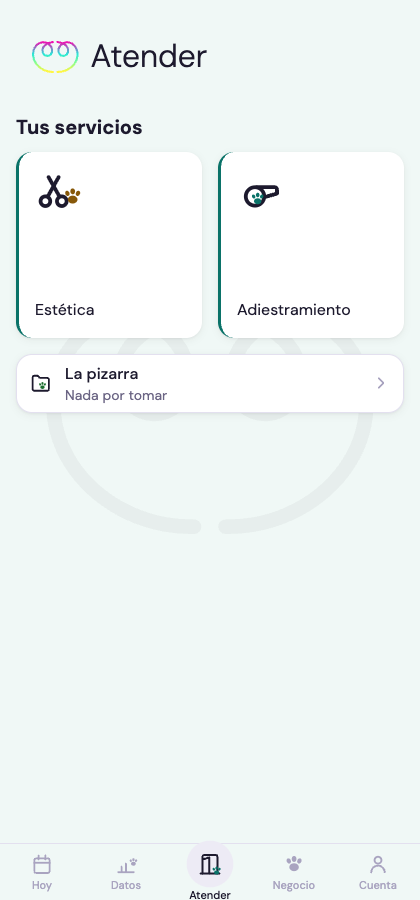
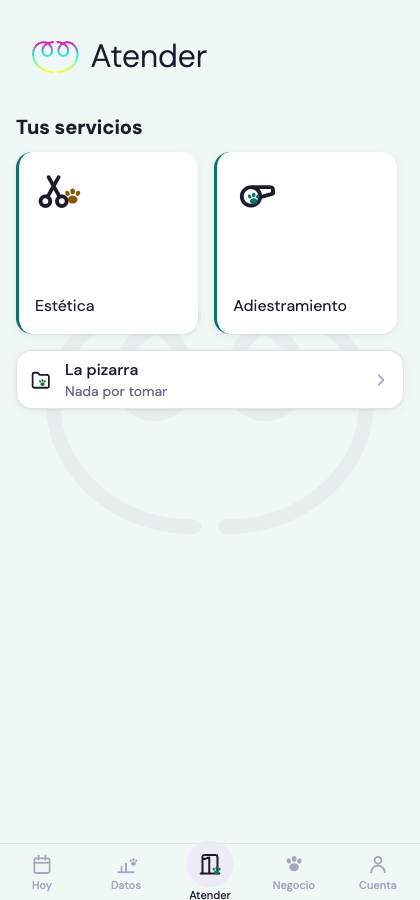
feat(s98-c): ✅ `orden` DEVUELTO con sus dos condiciones · y la celda corregida con medicion
LAS DOS CONDICIONES, cumplidas y verificadas — no una:
  ① la pieza declara su alto: el `aspectRatio` subio a la RAIZ (B,
     `7d42849c`). La ley «la raiz es duena de su espacio» estaba cumplida
     a medias: el espacio son dos dimensiones y solo tenia el ancho.
  ② mi captura re-corrida CON EL TESTIGO DEBAJO (la pizarra). El vecino es
     lo unico que hace visible una altura cero — sin el, la foto no prueba
     nada. La verificacion era parte de la condicion, no un paso posterior.

Y DOS DESVIOS DEL PATRON DOCUMENTADO, los dos MEDIDOS antes de desviarme:

① SIN `flexGrow`. El patron lo traia para que «una baldosa impar ocupe la
   fila entera en vez de quedar a media pantalla» — razonable para una
   tarjeta libre, y con la pieza ya CUADRADA produce el defecto que A
   midio: la impar crece a todo el ancho y su aspectRatio la vuelve un
   cuadrado de pantalla completa (~380×380; dos apiladas ≈ los 800 px).
   *Una regla de relleno se vuelve un gigante cuando la pieza ata alto a
   ancho.*

② `47%` y NO el `48%` nuevo, y esto es una MEDICION contra el patron que
   acaba de cambiar: el gap cuenta para la decision de wrap, asi que
     Android 412 (380 utiles): 2×182.4 + 16 = 380.8 > 380  ⇒ WRAP
     web     420 (388 utiles): 2×186.2 + 16 = 388.5 > 388  ⇒ WRAP
     con 47%:                  373.2 y 380.7               ⇒ ENTRA
   El 48% nacio para dejar de ser «fragil por siete pixeles» y **no entra
   en ninguno de los dos anchos reales**: mandaria la portada a UNA
[…]

diff --git a/apps/prestador/src/app/(tabs)/atender.tsx b/apps/prestador/src/app/(tabs)/atender.tsx
@@ -74,6 +74,34 @@ const KEY_OFICIO = {
   adiestramiento: 'atender.oficioAdiestramiento',
 } as const;
 
+/**
+ * 🔴 LA CELDA DE LA GRILLA — y sus dos desvíos del patrón documentado,
+ * los dos MEDIDOS antes de desviarme (D-804).
+ *
+ * ① **SIN `flexGrow`.** El patrón lo traía razonando que *«una baldosa
+ *    impar ocupe la fila entera en vez de quedar a media pantalla»* — y
+ *    esa regla, con la pieza ya CUADRADA, produce el defecto que A midió
+ *    en dispositivo: la impar crece a todo el ancho y su `aspectRatio: 1`
+ *    la vuelve **un cuadrado de pantalla completa** (~380×380; dos
+ *    apiladas ≈ los 800 px del reporte). *Lo que era una regla de relleno
+ *    razonable para una tarjeta libre se vuelve un gigante cuando la
+ *    pieza ata alto a ancho.*
+ *
+ * ② **`47%` y NO el `48%` nuevo.** El patrón cambió a 48% para dejar de
+ *    ser «frágil por siete píxeles», y la aritmética dice que el 48%
+ *    **no entra en ninguno de los dos anchos reales** —el gap cuenta
+ *    para la decisión de wrap—:
+ *
+ *      Android 412 (380 útiles): 2×182.4 + 16 = 380.8 > 380  ⇒ WRAP
+ *      web     420 (388 útiles): 2×186.2 + 16 = 388.5 > 388  ⇒ WRAP
+ *      con 47%:                  373.2 y 380.7               ⇒ ENTRA
+ *
+ *    Adoptarlo mandaría la portada a UNA columna en los dos aparatos.
+ *    **Va como medición a B, no como parche mío a su patrón** — pero
+ *    tampoco copio un número que ya medí que no entra.
+ */
+const ESTILO_CELDA = { flexBasis: '47%' } as const;
+
 type Pantalla =
   | { fase: 'cargando' }
   // El error DICE su causa y ofrece reintentar (Ley 13 / regla 36): un
@@ -192,26 +220,11 @@ export default function Atender() {
                     naturalezas (§1.2) — `Tus servicios` y `Tu tienda`. No
                     son vocabulario: son el primer candado del cinturón. */}
                 <Texto variante="seccion">{t('atender.tusServicios')}</Texto>
-                {/* 🔴 S98-C · `orden` EN ESPERA — y esta vez NO es una
-                    desviación con condición de muerte: es un commit RETENIDO.
-
-                    Lo devolví (`2bb4f8e3`) creyendo que la causa del
-                    colapso había desaparecido por construcción con la cura
-                    de `Entrada`. **Era la causa del CONTENEDOR.** D-804
-                    midió la otra, y sigue viva: **la pieza no declara su
-                    alto** —su raíz lleva `width` y nada más; el
-                    `aspectRatio` vive en un hijo— así que hereda el alto de
-                    donde caiga: 0 con un contenedor que no le da nada, ~800
-                    con uno que le da todo.
-
-                    ⇒ **Devolver el escalonado sobre una pieza sin alto
-                    propio es reabrir el colapso, no cerrarlo.**
-
-                    ☠ VUELVE cuando la pieza declare su alto (B) **y** yo
-                    re-corra la captura con `orden` puesto Y EL TESTIGO
-                    DEBAJO — el vecino es lo que hace visible una altura
-                    cero, y sin él la foto no prueba nada. *La verificación
-                    es parte de la condición, no un paso posterior.* */}
+                {/* ✅ S98-C · `orden` DEVUELTO — con las DOS condiciones
+                    cumplidas y verificadas, no con una: la pieza declara su
+                    alto (`aspectRatio` subió a su raíz, B) **y** esta
+                    captura se re-corrió con el testigo debajo (la pizarra),
+                    que es lo único que hace visible una altura cero. */}
                 {/* 🔴 `alignItems: 'flex-start'` — LA MITAD DE D-804 QUE ES MÍA.
                     Con el default `stretch`, cada celda de la fila recibe un
                     ALTO DEFINIDO (el de la fila), y un alto definido GANA
@@ -241,12 +254,13 @@ export default function Atender() {
                     gap: spacing[4],
                   }}
                 >
-                  {capacidad.oficios.map((o) => (
-                    <View key={o.oficio} style={{ flexBasis: '47%', flexGrow: 1 }}>
+                  {capacidad.oficios.map((o, i) => (
+                    <View key={o.oficio} style={ESTILO_CELDA}>
                       <Baldosa
                         glifo={GLIFO_OFICIO[o.oficio]}
                         titulo={t(KEY_OFICIO[o.oficio])}
                         capa={o.oficio === 'veterinaria' ? 'identidad' : 'cuidado'}
+                        orden={i}
                         onPress={() =>
                           router.push({ pathname: '/mostrador', params: { oficio: o.oficio } })
                         }
@@ -302,11 +316,12 @@ export default function Atender() {
                     gap: spacing[4],
                   }}
                 >
-                  <View style={{ flexBasis: '47%', flexGrow: 1 }}>
+                  <View style={ESTILO_CELDA}>
                     <Baldosa
                       glifo="despensa"
                       titulo={t('atender.ventaTitulo')}
                       capa="consumo"
+                      orden={capacidad.oficios.length}
                       onPress={() => router.push('/ventas/mostrador')}
                     />
                   </View>
